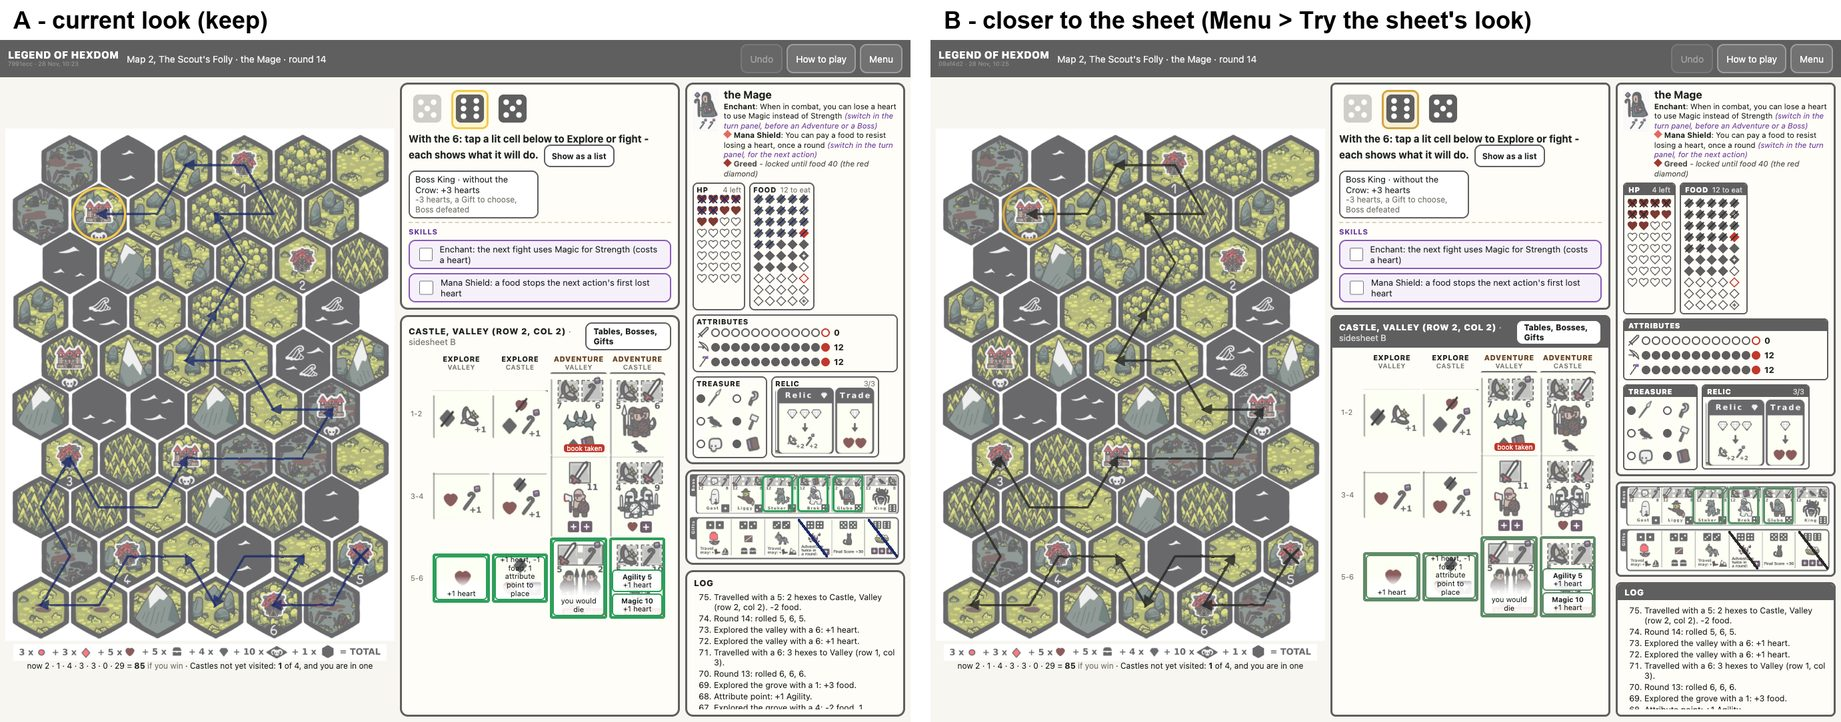
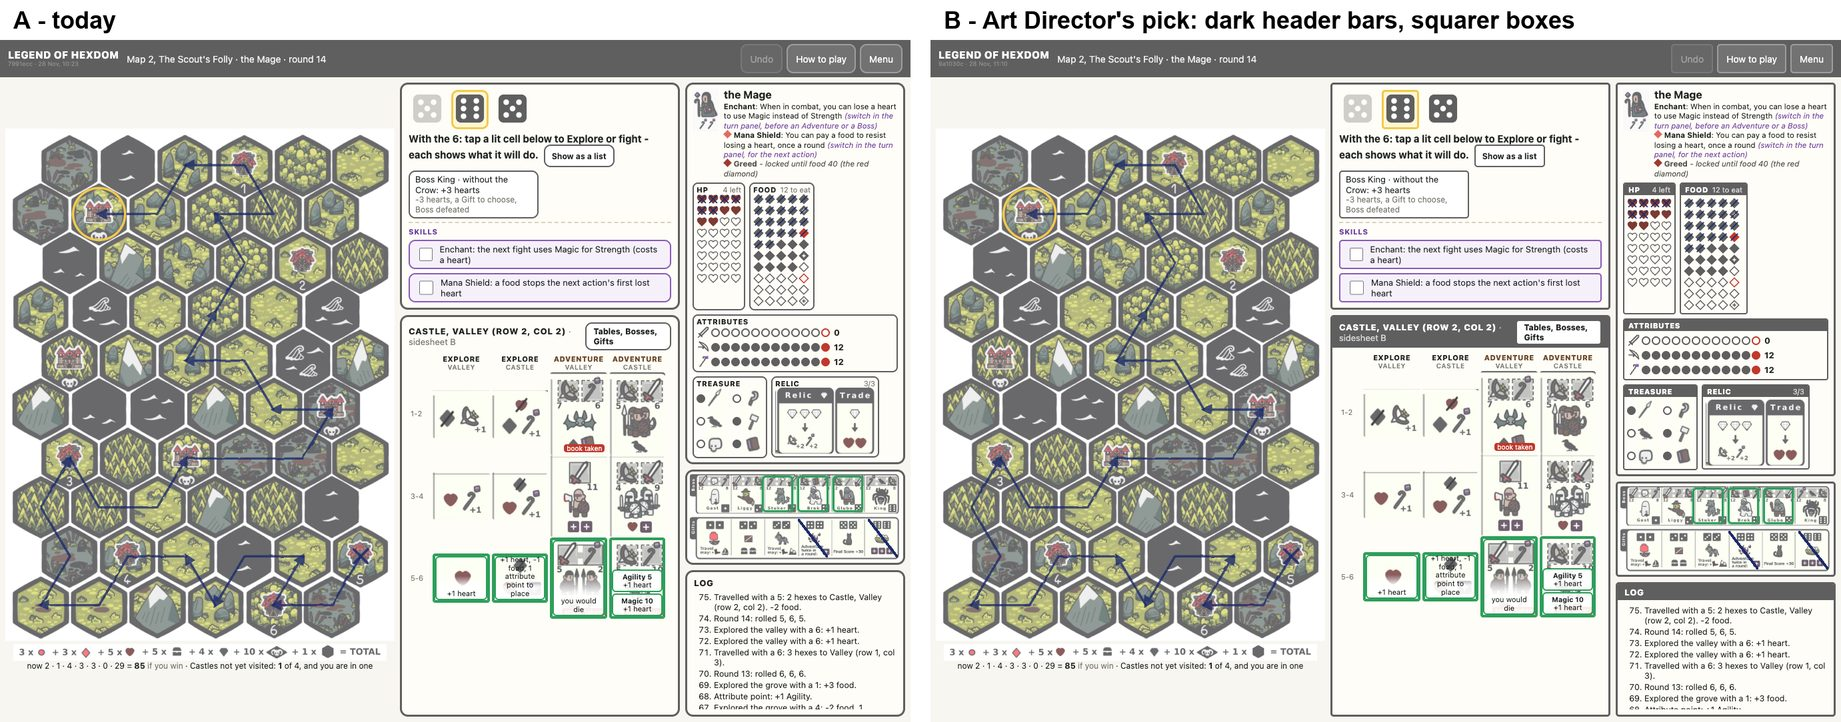
Legend of Hexdom: the Art Director reviews the overnight visual changes; trial look becomes its pick
The trial look, the live-Boss boxes and the portrait re-crops had not been shown to the Art
Director. Reviewed now in three calls (blind, with the notebook, then the result), recorded in
art/decisions.md: the trial look keeps the sheet's dark header bars and squarer corners but today's
blue ink, bright green and yellow (charcoal ink and muted green hurt legibility); the live-Boss boxes
and all three portraits are approved as they are.

Claude-Session: https://claude.ai/code/session_01RMTQQbtgMEPN4Rw3UKF3BH

diff --git a/games/legend-of-hexdom/src/styles.css b/games/legend-of-hexdom/src/styles.css
@@ -251,19 +251,14 @@ button { font: inherit; color: inherit; }
 .taken { white-space: nowrap; max-width: 95%; overflow: hidden; text-overflow: ellipsis; }
 .strip-live { position: absolute; top: 2px; bottom: 2px; border: 3px solid var(--target); border-radius: 6px; box-shadow: 0 0 0 2px rgba(46,158,91,.25); pointer-events: auto; }
 
-/* The trial look (src/ui/look.ts): the printed sheet's frames and a charcoal pen. */
-:root[data-look="sheet"] {
-  --pen: #2b2b2b;
-  --target: #5e8c68;
-  --lit: #d1a640;
-}
-[data-look="sheet"] .panel { border-radius: 8px; }
-[data-look="sheet"] .panel-title { background: var(--frame); color: #fff; margin: -8px -10px 8px; padding: 4px 10px; border-radius: 4px 4px 0 0; }
+/* The trial look (src/ui/look.ts): the printed sheet's frames - dark header bars, squarer boxes.
+   The colours stay today's: the Art Director's review (art/decisions.md, 2026-11-28) found charcoal
+   ink and a muted green harder to see over the map and the cells, and would not ship them. */
+[data-look="sheet"] .panel { border-radius: 5px; }
+[data-look="sheet"] .panel-title { background: var(--frame); color: #fff; margin: -8px -10px 8px; padding: 4px 10px; border-radius: 2px 2px 0 0; }
+[data-look="sheet"] .btn, [data-look="sheet"] .toggle.skill, [data-look="sheet"] .die-btn { border-radius: 5px; }
 [data-look="sheet"] .panel-title .btn { color: var(--ink); background: #fff; min-height: 32px; padding: 2px 10px; }
 [data-look="sheet"] .panel-title .muted, [data-look="sheet"] .panel-title .sub { color: rgba(255, 255, 255, .75); }
-[data-look="sheet"] .box { border-radius: 6px; padding-top: 0; overflow: hidden; }
+[data-look="sheet"] .box { border-radius: 4px; padding-top: 0; overflow: hidden; }
 [data-look="sheet"] .box-title { background: var(--frame); color: #fff; margin: 0 -4px 4px; padding: 2px 6px; }
 [data-look="sheet"] .box-note { color: rgba(255, 255, 255, .75); }
-[data-look="sheet"] .hex.target { fill: rgba(94, 140, 104, .16); }
-[data-look="sheet"] .die-btn.on { background: #f7efd9; }
-[data-look="sheet"] .ink-line { opacity: .85; }

diff --git a/games/legend-of-hexdom/src/ui/look.ts b/games/legend-of-hexdom/src/ui/look.ts
@@ -1,6 +1,7 @@
 // A trial look for the Game Director's taste call (ROADMAP "Waiting on you", item 3), from the Art
 // Director's review (art/decisions.md, 2026-11-28): frames closer to the printed sheet (dark header
-// bars, squarer boxes) and charcoal ink with muted previews. The current look stays the default until
+// bars, squarer boxes), with today's colours, as the Art Director recommended after seeing both at
+// play size. The current look stays the default until
 // they decide; "?look=sheet" or the Menu switch shows the other. A per-device preference, kept apart
 // from the game's save. Whichever wins becomes the only look, and this file goes.
 import { readStored, writeStored } from '@pnp/kit/playtest';

diff --git a/games/legend-of-hexdom/src/ui/App.tsx b/games/legend-of-hexdom/src/ui/App.tsx
@@ -883,7 +883,7 @@ function MenuDialog({
                 setLook(l);
               }}
             />{' '}
-            Try the sheet's look: dark headers, charcoal ink (a taste question for you, on this device only)
+            Try the sheet's look: dark header bars, squarer boxes (a taste question for you, on this device only)
           </label>
           {journal !== null && (
             <div className="journal">

diff --git a/games/legend-of-hexdom/art/decisions.md b/games/legend-of-hexdom/art/decisions.md
@@ -2,6 +2,40 @@
 
 Dated, newest first. What was asked, what came back, what was accepted or rejected and why.
 
+## 2026-11-28 (morning) - the trial look, the live-Boss boxes and the portraits, after the fact
+
+**Why after the fact.** Overnight the tech lead built three visual changes without showing them to
+the Art Director, and sent the Game Director a comparison of the trial look before it had been
+reviewed. The Game Director asked whether the visual decisions were aligned with the Art Director;
+they were not, so the review below was run before anything else went to them.
+
+**Asked** `gpt-5.6-sol`, in three calls, with crops at 1366x1024 (each column under 768 px wide):
+1. **Blind**, without this notebook: versions A and B side by side, and the printed sheet. Neither
+   version was named as newer or intended. Question: what differs, column by column, and is each
+   difference better or worse for play?
+2. **With the notebook and the intent:** a recommendation for the Game Director, then the live-Boss
+   boxes on the Boss strip, then the old and new portrait crops beside the Mage's card.
+3. **The recommended mix as built.**
+
+**Came back:**
+- **Blind:** B's charcoal header bars are better for scanning and closer to the sheet. B's charcoal
+  route merges into dark terrain and Castle art. B's muted green makes tappable cells less
+  distinct. B shows about one fewer log line.
+- **Recommendation: a mix.** B's header bars and squarer corners. A's blue ink, bright green and
+  yellow. It would not ship B's charcoal ink or muted green: the route and the tappable cells carry
+  play information, so this is usability. The lost log line is worth the clearer headings.
+- **Live-Boss boxes: keep as shown.** They read as "available now" and hide nothing. If players
+  take green to mean only "tappable", let the action preview spell out "no 3-heart penalty" rather
+  than adding anything inside the cell.
+- **Portraits: all three new crops are correct.** Whole figure and starting icons, no text, no skill
+  diamond. The purple diamond on the Mage's staff belongs to the portrait. No regression.
+- **The mix as built:** yes, it is the recommendation, except that the corners were not yet square
+  enough on panels, skill boxes and buttons.
+
+**Done:** the trial look is now that mix, with the corners squared (panels 5 px, boxes 4 px,
+buttons 5 px). It fits all three sizes with no overflow. `art/compare/2026-11-28-look-A-vs-B.jpg`
+was redrawn. The choice between A and the mix stays with the Game Director.
+
 ## 2026-11-28 - review of the first screens at play size (stage 4)
 
 **Asked** `gpt-5.6-sol`, with the notebook, four screenshots at 1366x865 and 1440x900 and the

diff --git a/games/legend-of-hexdom/ROADMAP.md b/games/legend-of-hexdom/ROADMAP.md
@@ -19,11 +19,11 @@ decisions that are theirs to be kept here, short.
    column rebuilt to look at before the rest is done.
 3. **Taste: A or B?** Picture: `art/compare/2026-11-28-look-A-vs-B.jpg`. To try B on the iPad, tick
    Menu > "Try the sheet's look". It's per device, and your game is untouched.
-   - **A**, today: yellow = selected, green = where you can go, blue ink.
-   - **B**, the Art Director's idea: dark header bars like the printed panels, squarer boxes,
-     charcoal ink, muted green.
-   - Trade-off: B's charcoal route is harder to see over the grey Mountain and Water hexes.
-   - Mixing is fine, e.g. B's headers with A's blue ink.
+   - **A**, today.
+   - **B**, the Art Director's pick after reviewing both at play size: the printed sheet's dark
+     header bars and squarer boxes, with today's colours. Its words: the charcoal structure feels
+     closer to the sheet, and blue ink and green/yellow keep actions and selection clear.
+   - It costs about one visible log line.
 4. **Release: your call (stage 5c). I recommend yes.** Two playtests played four games and won all
    three that finished, one with each character. Their 13 findings are fixed. None was a rule error.
    What isn't done: the two taste questions above, and the Art Director's polish.
